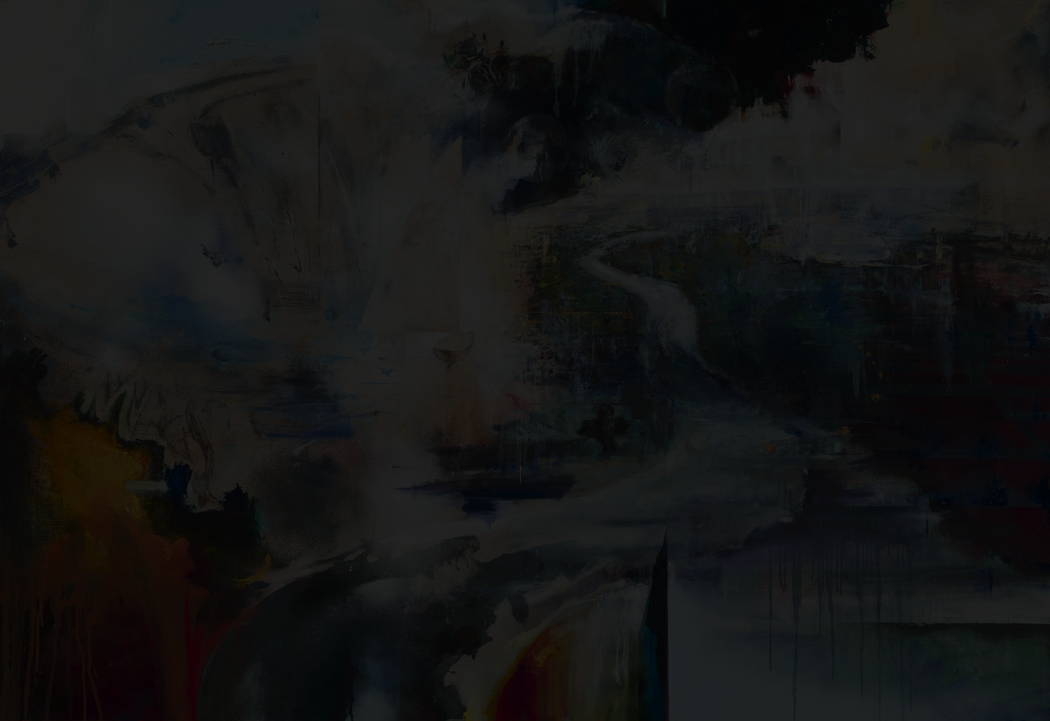
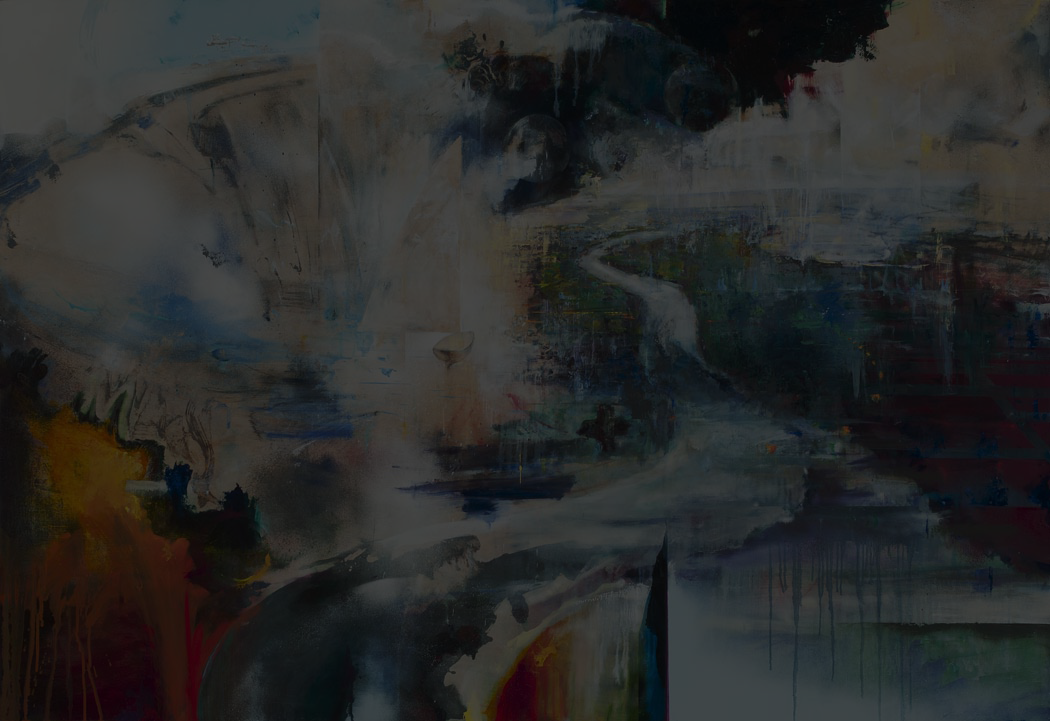
Updated background image and added the redirect page's folder to .gitignore

diff --git a/css/styles.css b/css/styles.css
@@ -5,7 +5,7 @@ body {
   	text-shadow: 0px 0px 10px rgba(0,0,0,1);
   	background-color: black;
   	color: white;
-  	background: black url("../image/background2.png") no-repeat fixed center center;
+  	background: black url("../image/background.png") no-repeat fixed center center;
   	-webkit-background-size: cover;
   	-moz-background-size: cover;
   	-o-background-size: cover;
